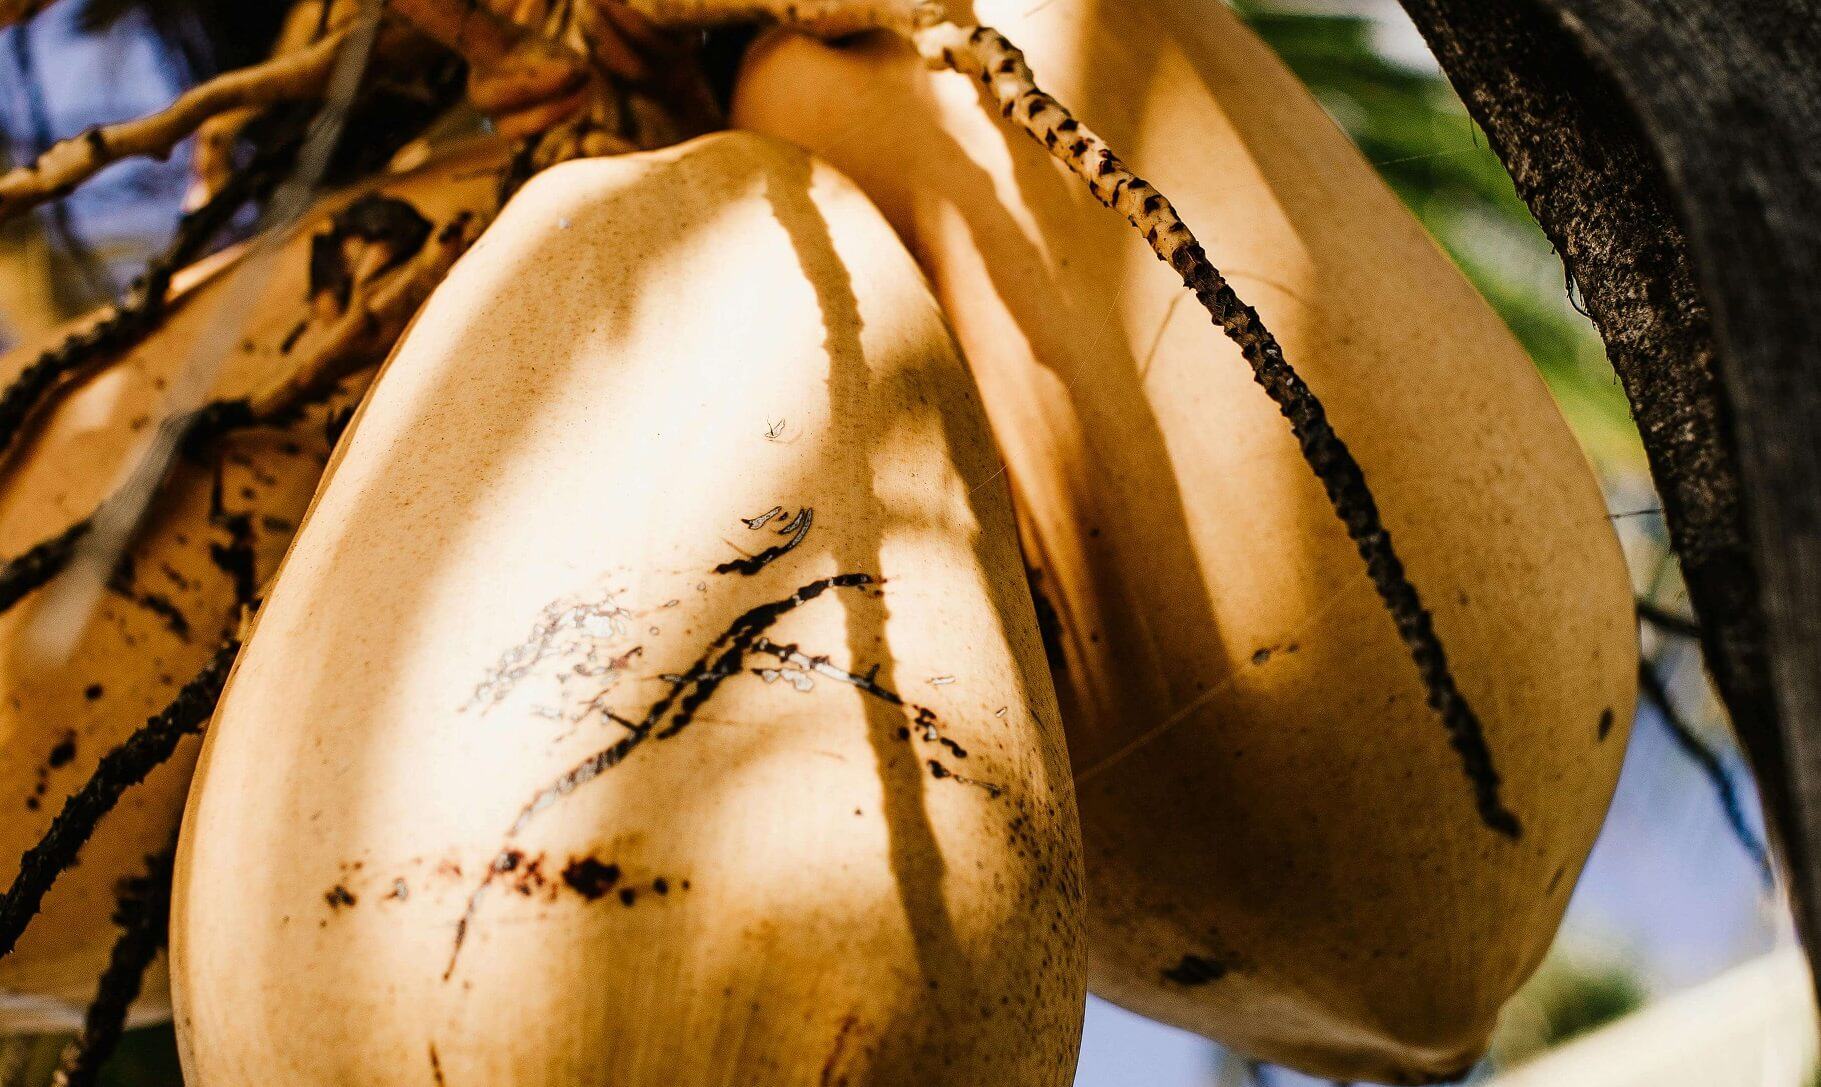
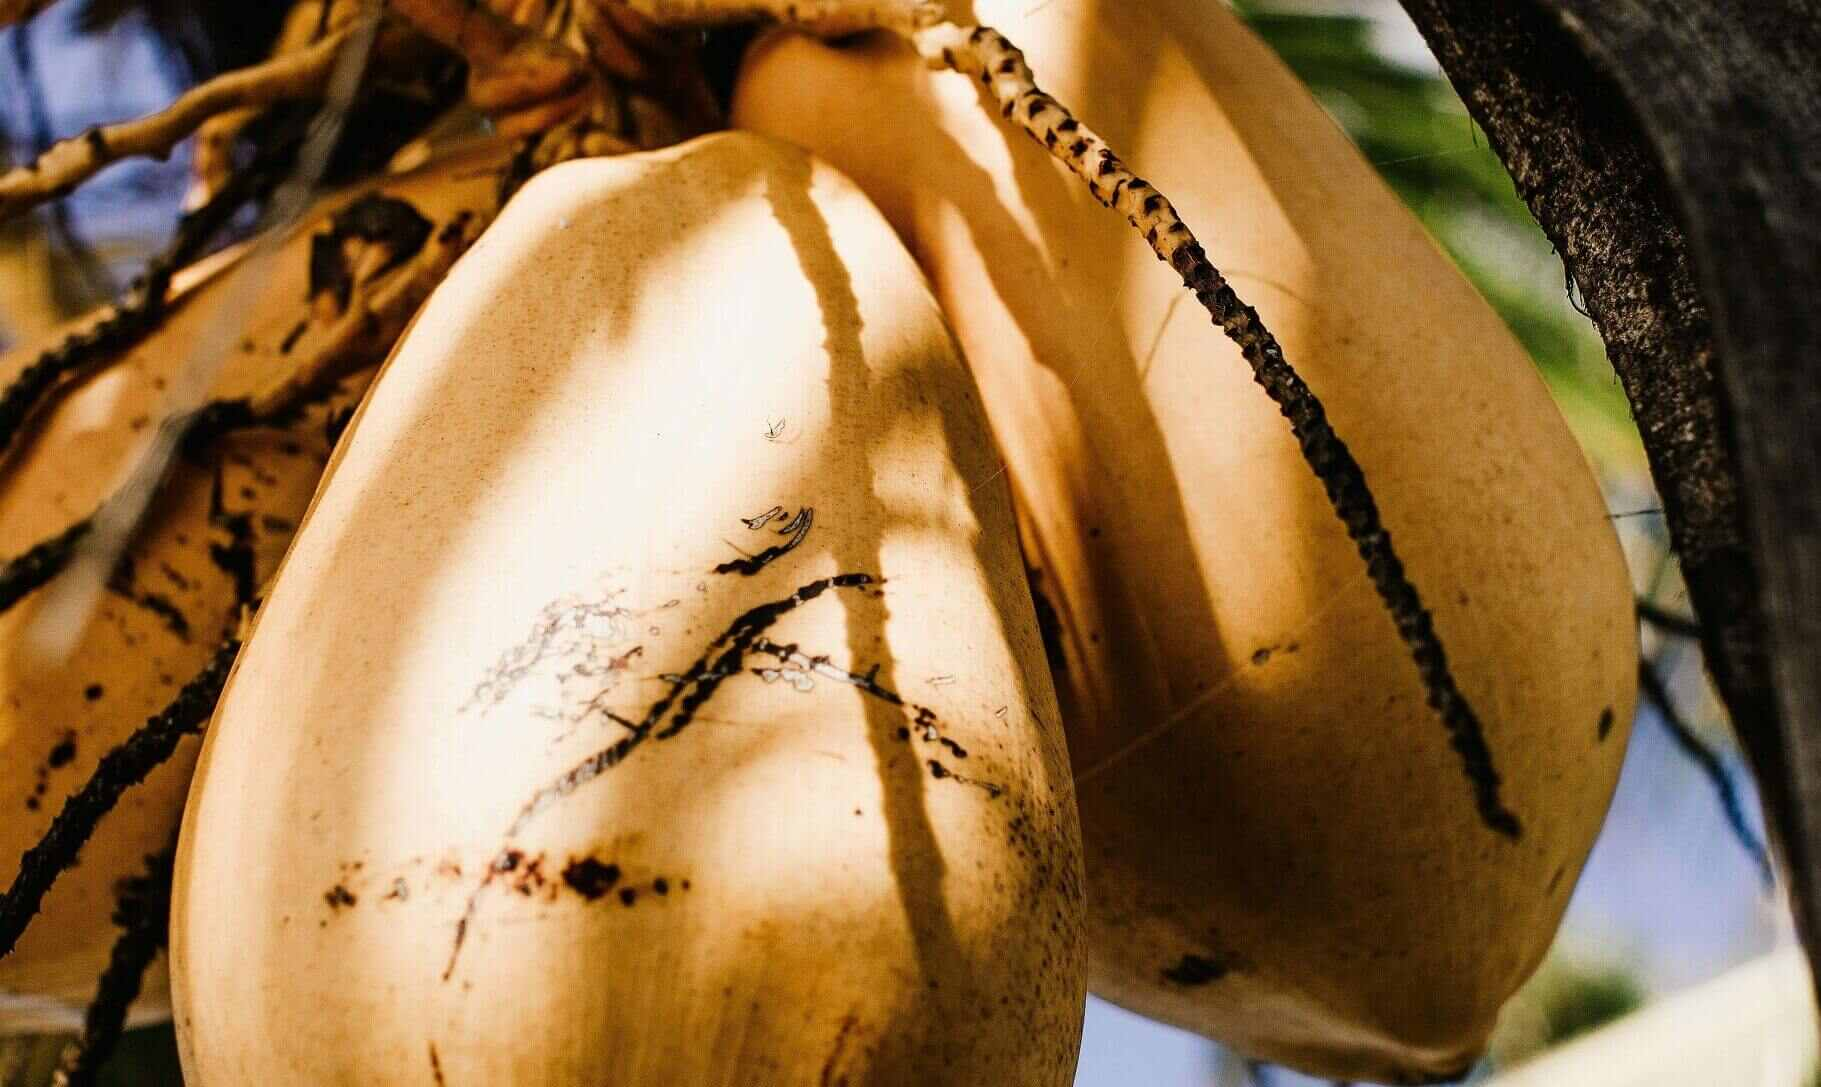
Audit1

diff --git a/place.html b/place.html
@@ -11,6 +11,10 @@
         <link href="styles/country.css" rel="stylesheet">
         <link href="styles/country-large.css" rel="stylesheet">
         <script defer src="scripts/weather.js"></script>
+
+        <link rel="preconnect" href="https://fonts.googleapis.com">
+        <link rel="preconnect" href="https://fonts.gstatic.com" crossorigin>
+        <link href="https://fonts.googleapis.com/css2?family=Open+Sans:ital,wght@0,300..800;1,300..800&display=swap" rel="stylesheet">
     </head>
 
     <body>
@@ -21,7 +25,7 @@
         <main id="home-grid">
 
             <div id="heroimage">
-                    <img id="heroimg" src="images/pic1.jpg" alt="Hero image">
+                    <img id="heroimg" src="images/pic1.webp" alt="Hero image">
             </div>
 
              <div id="image">
